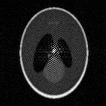
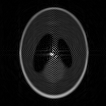
Add results

diff --git a/scripts/MAP2D.m b/scripts/MAP2D.m
@@ -1,4 +1,3 @@
-feature('numcores')
 % Get the image.
 P = phantom(200);
 
@@ -14,7 +13,7 @@ max_shift_amplitude = 0;
 filename = ...
     '../results/bayesian_estimation/error_angles_and_shifts/local_personal/5_percent_noise/';
 num_theta = 180;
-max_angle_err = 0;
+max_angle_err = 1;
 max_shift_err = 0;
 resolution_angle = 1;
 resolution_space = 1;
@@ -72,7 +71,7 @@ disp(norm(min(abs(first_estimate_theta - theta),...
 disp(norm(first_estimate_shifts - original_shifts, 1));
 
 % Begin estimation of the first model.
-max_angle_err = 0;
+max_angle_err = 5;
 max_shift_err = 0;
 prob_matrix_height = (2*max_angle_err)/resolution_angle + 1;
 prob_matrix_width = 2*max_shift_err/resolution_space + 1;
@@ -97,7 +96,7 @@ for i=1:size(prob_matrix, 1)
                 current_shift);
     end
 end
-max_angle_err = 0;
+max_angle_err = 1;
 max_shift_err = 0;
 
 f_image_estimate = fourier_radial(:);
@@ -263,16 +262,18 @@ saveas(gcf, strcat(filename, num2str(num_theta), '/error.png'));
 % Show the reconstructed image.
 figure; imshow(reconstructed_image);
 
-theta_to_write(2, :) = correct_theta;
-theta_to_write(7, :) = correct_shift;
+theta_to_write(2, :) = first_estimate_theta;
+theta_to_write(3, :) = correct_theta;
+theta_to_write(8, :) = first_estimate_shifts;
+theta_to_write(9, :) = correct_shift;
 
 % Relative error in theta.
-theta_to_write(3, 1) =...
-    norm(correct_theta - theta);
 theta_to_write(4, 1) =...
+    norm(correct_theta - theta);
+theta_to_write(5, 1) =...
     norm(correct_shift - original_shifts);
 
-theta_to_write(5, 1) = norm(current_image - P);
+theta_to_write(6, 1) = norm(current_image - P);
 
 % Write all the parameters and estimated parameters.
 csvwrite(strcat(filename, num2str(num_theta),...
